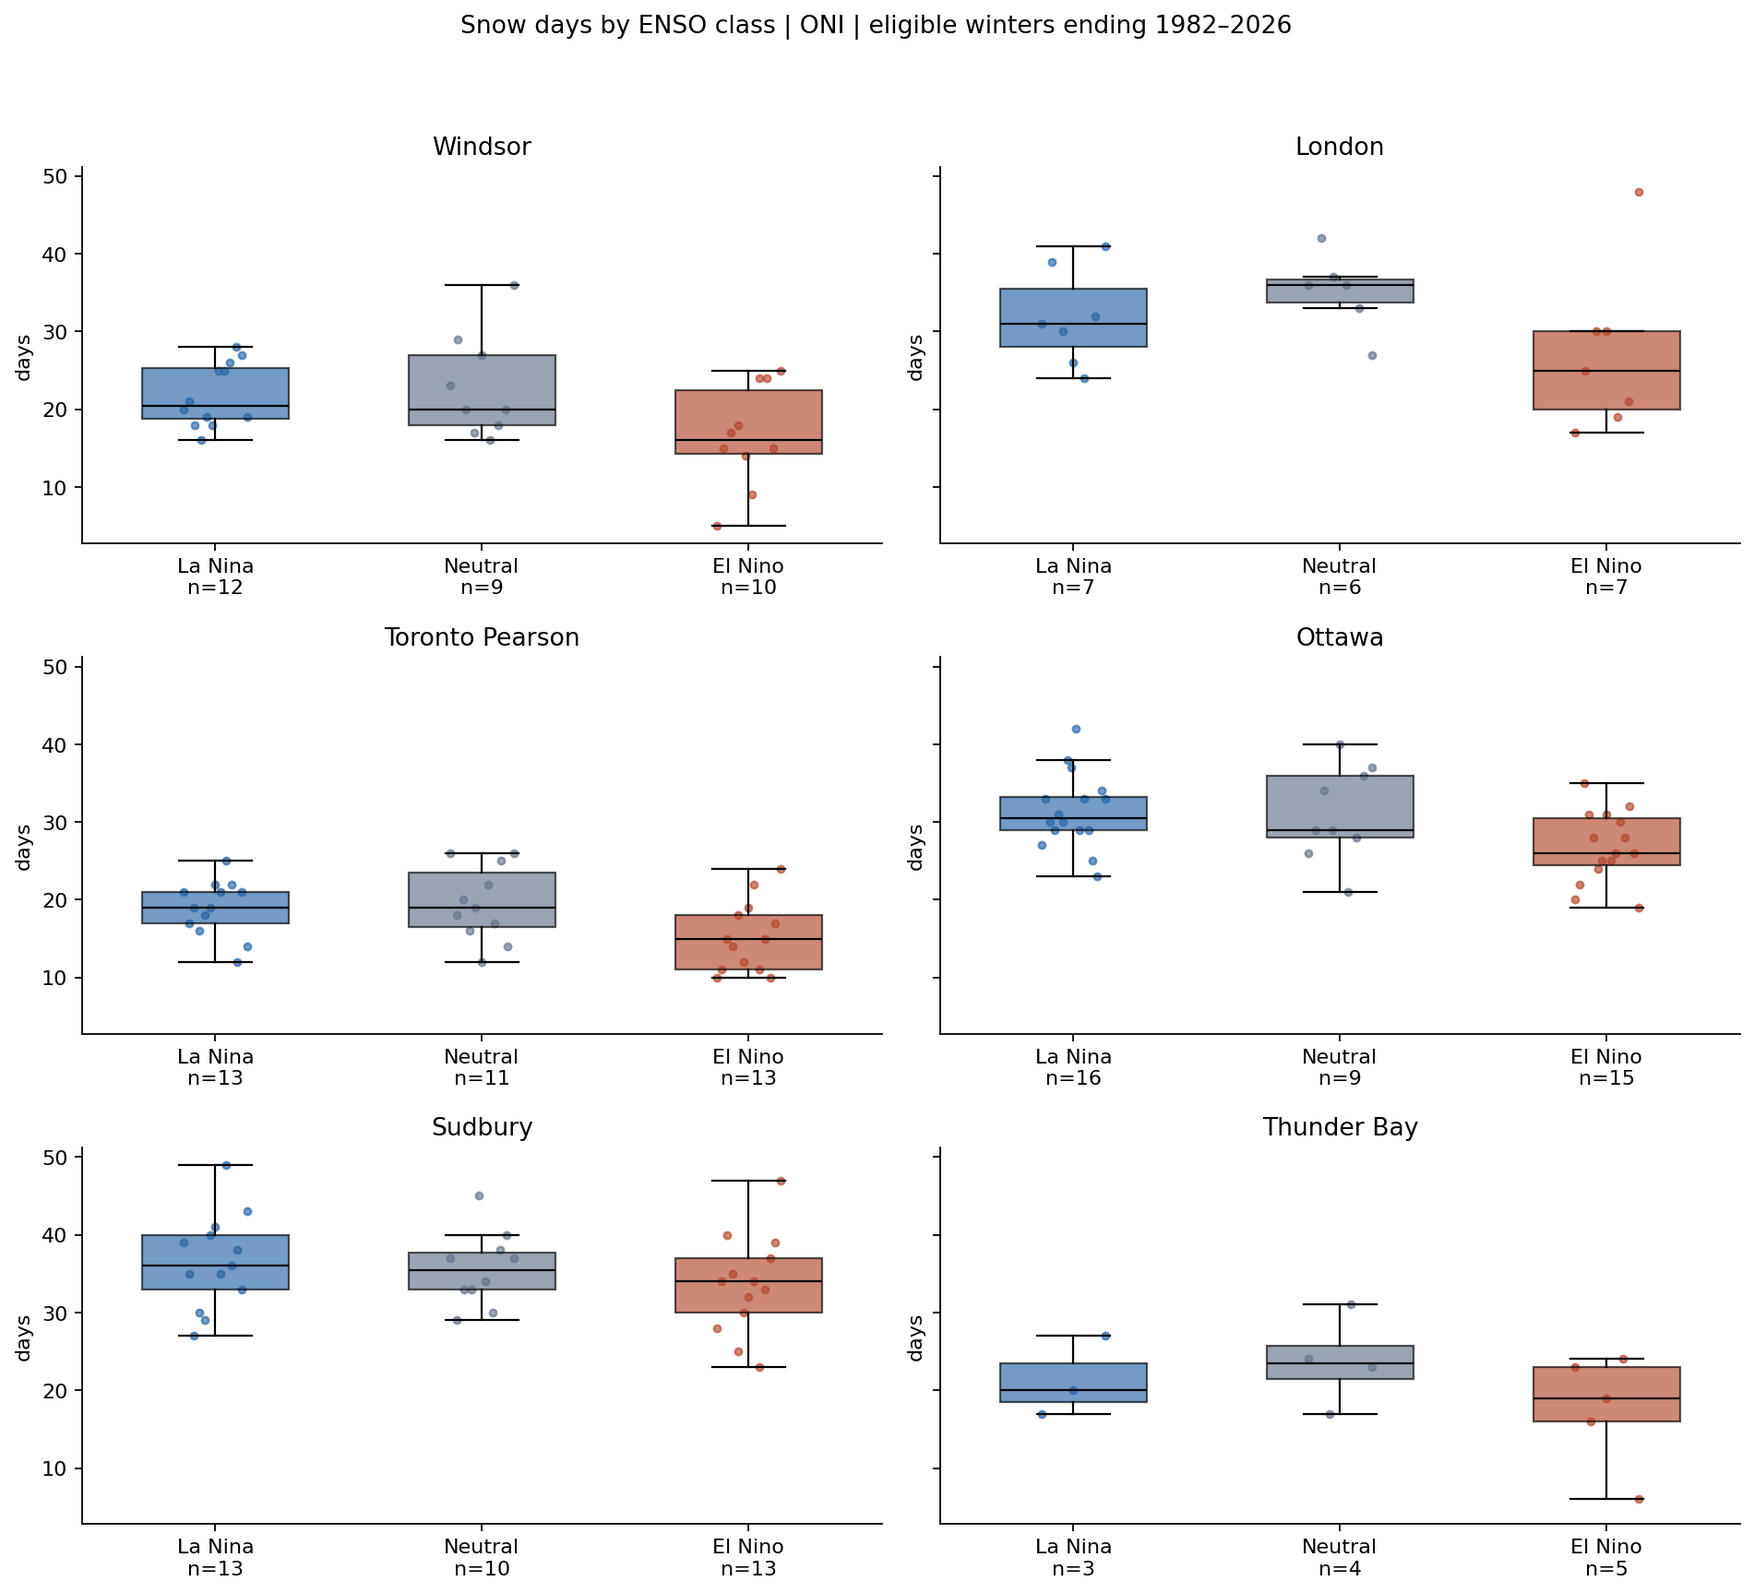
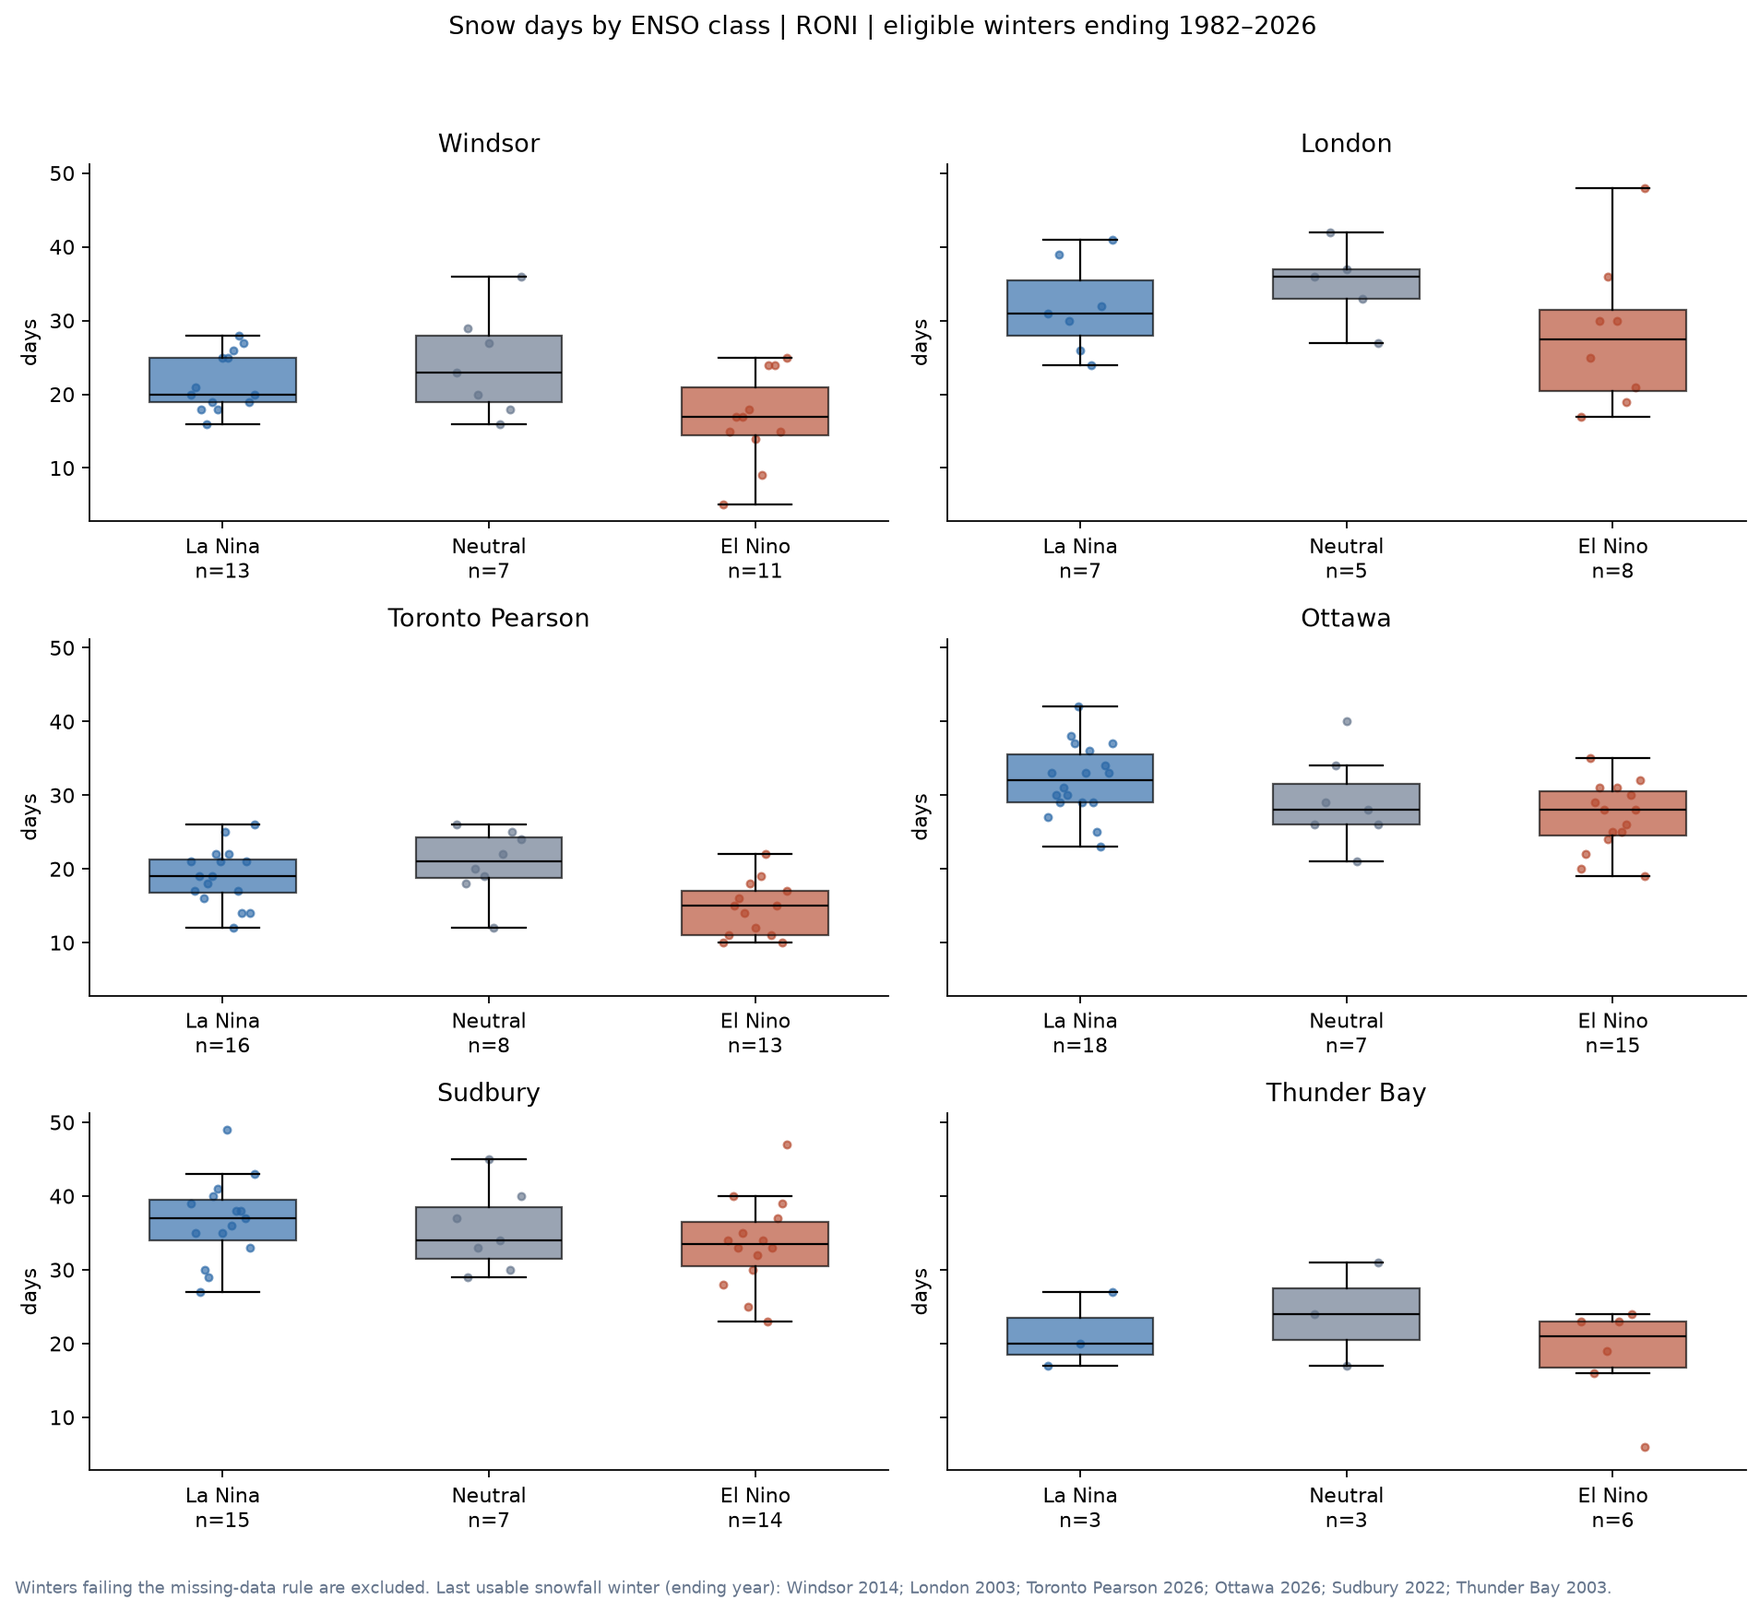
RONI Index Update
Changing the Index Parameter for Temperature

diff --git a/python/extra_charts.py b/python/extra_charts.py
@@ -1,0 +1,175 @@
+"""Extra charts: latitude gradient, ENSO index vs anomaly, data-usability grid, ONI vs RONI.
+
+Called from run_pipeline.py after create_charts(). Reads only the calculated tables,
+so it never changes the analysis.
+"""
+import numpy as np
+import matplotlib.pyplot as plt
+from matplotlib.patches import Rectangle, Patch
+from matplotlib.lines import Line2D
+import config as cfg
+from viz_style import COLORS, apply_style, finish
+
+INK = '#1f2937'
+MUTED = '#64748b'
+USABLE = '#2f6f73'      # teal: a usable winter
+MISSING = '#e5e7eb'     # light grey: excluded winter
+RNG = np.random.default_rng(cfg.RANDOM_SEED)
+
+
+def _pair(comparison, index, metric, group='El Nino'):
+    """El Nino (or Strong El Nino) minus Neutral rows for one index and metric."""
+    return comparison.loc[comparison['enso_index'].eq(index) & comparison['metric'].eq(metric)
+                          & comparison['comparison_group'].eq(group)
+                          & comparison['reference_group'].eq('Neutral')].set_index('city')
+
+
+def latitude_gradient(comparison, folder):
+    """Difference (El Nino minus Neutral) against station latitude: the south-to-north question."""
+    panels = [('mean_temp', 'Mean winter temperature', 'Difference (degrees C)'),
+              ('snowfall_total_cm', 'Total winter snowfall', 'Difference (cm)'),
+              ('snow_days', 'Snow days', 'Difference (days)')]
+    fig, axes = plt.subplots(1, 3, figsize=(15, 5))
+    for ax, (metric, title, ylabel) in zip(axes, panels):
+        rows = _pair(comparison, cfg.PRIMARY_INDEX, metric)
+        for k, (city, row) in enumerate(rows.sort_index(key=lambda i: [cfg.LATITUDES[c] for c in i]).iterrows()):
+            if not np.isfinite(row['difference']):
+                continue
+            lat = cfg.LATITUDES[city]
+            ax.plot([lat, lat], [row['ci_lower'], row['ci_upper']], color=COLORS['El Nino'], linewidth=1.8)
+            ax.scatter(lat, row['difference'], s=40, color=COLORS['El Nino'], zorder=3)
+            ax.annotate(f"{cfg.CITY_NAMES[city]}\nn={int(row['n_comparison'])}/{int(row['n_reference'])}",
+                        (lat, row['ci_upper']), textcoords='offset points', xytext=(0, 5 + 22 * (k % 2)),
+                        ha='center', fontsize=8, color=INK)
+        ax.axhline(0, color=MUTED, linewidth=1)
+        ax.margins(y=.18)
+        ax.set(title=title, xlabel='Station latitude (degrees N)', ylabel=ylabel)
+    fig.suptitle(f'El Nino minus Neutral by latitude | {cfg.PRIMARY_INDEX} | 95% intervals, n=El Nino/neutral winters')
+    fig.text(.01, .005, 'Winters failing the missing-data rule are excluded, so group sizes differ by station. '
+             'Snowfall covers different years at each station.', fontsize=8, color=MUTED)
+    finish(fig, folder / 'latitude_gradient.png')
+
+
+def _slope_ci(x, y, n=5000):
+    """Bootstrap 95% interval for the least-squares slope, resampling winters."""
+    slopes = []
+    for _ in range(n):
+        i = RNG.integers(0, len(x), len(x))
+        if np.ptp(x[i]) > 0:
+            slopes.append(np.polyfit(x[i], y[i], 1)[0])
+    return np.percentile(slopes, [2.5, 97.5])
+
+
+def index_vs_anomaly(winters, folder):
+    """Winter temperature anomaly against the continuous DJF index value (all winters, no classes)."""
+    index = cfg.PRIMARY_INDEX.lower()
+    cities = sorted(winters['city'].unique(), key=lambda c: cfg.LATITUDES[c])
+    fig, axes = plt.subplots(3, 2, figsize=(12, 11), sharex=True, sharey=True)
+    for ax, city in zip(axes.flat, cities):
+        block = winters.loc[winters['city'].eq(city)].dropna(subset=['temp_anomaly', 'enso_value'])
+        for group in cfg.CLASS_ORDER:
+            g = block.loc[block[f'enso_class_{index}'].eq(group)]
+            ax.scatter(g['enso_value'], g['temp_anomaly'], s=22, color=COLORS[group], alpha=.85,
+                       label=group, edgecolor='white', linewidth=.5)
+        x, y = block['enso_value'].to_numpy(), block['temp_anomaly'].to_numpy()
+        slope, intercept = np.polyfit(x, y, 1)
+        lo, hi = _slope_ci(x, y)
+        xs = np.array([x.min(), x.max()])
+        ax.plot(xs, intercept + slope * xs, color=INK, linewidth=1.3)
+        for v in (cfg.LA_NINA_THRESHOLD, cfg.EL_NINO_THRESHOLD):
+            ax.axvline(v, color='#cbd5e1', linewidth=.8, linestyle=':')
+        ax.axhline(0, color='#cbd5e1', linewidth=.8)
+        r = np.corrcoef(x, y)[0, 1]
+        ax.set_title(f'{cfg.CITY_NAMES[city]}: slope {slope:+.2f} °C per index unit '
+                     f'({lo:+.2f} to {hi:+.2f}), r={r:.2f}, n={len(x)}', fontsize=9.5)
+        ax.set(xlabel=f'DJF {cfg.PRIMARY_INDEX}', ylabel='Anomaly (degrees C)')
+    handles = [Line2D([], [], marker='o', linestyle='', color=COLORS[g], label=g) for g in cfg.CLASS_ORDER]
+    handles.append(Line2D([], [], color=INK, label='Least-squares fit'))
+    fig.legend(handles=handles, loc='upper center', bbox_to_anchor=(.5, .958), ncol=4, frameon=False)
+    fig.suptitle(f'Winter temperature anomaly vs DJF {cfg.PRIMARY_INDEX} | all eligible winters')
+    fig.text(.01, .005, 'Dotted lines mark the El Nino and La Nina thresholds. Slope intervals are bootstrap 95% '
+             'intervals over winters.', fontsize=8, color=MUTED)
+    finish(fig, folder / 'index_vs_temp_anomaly.png')
+
+
+def usability_grid(winters, folder):
+    """Which winters are usable for temperature and snowfall at each station, with the ENSO class on top."""
+    index = cfg.PRIMARY_INDEX.lower()
+    cities = sorted(winters['city'].unique(), key=lambda c: cfg.LATITUDES[c])
+    years = list(range(cfg.FIRST_WINTER, cfg.LAST_WINTER + 1))
+    fig, ax = plt.subplots(figsize=(13, 6.5))
+    # ENSO strip (same for every station)
+    enso = winters.drop_duplicates('winter_year').set_index('winter_year')[f'enso_class_{index}']
+    for j, yr in enumerate(years):
+        ax.add_patch(Rectangle((j, 0), .92, .7, color=COLORS.get(enso.get(yr), MISSING), linewidth=0))
+    ax.text(-.5, .35, f'ENSO class ({cfg.PRIMARY_INDEX})', ha='right', va='center', fontsize=9, color=INK)
+    y = 1.4
+    for city in cities:
+        block = winters.loc[winters['city'].eq(city)].set_index('winter_year')
+        for label, flag in [('Temperature', 'temperature_pass'), ('Snowfall', 'snowfall_pass')]:
+            for j, yr in enumerate(years):
+                ok = bool(block[flag].get(yr, False))
+                ax.add_patch(Rectangle((j, y), .92, .7, facecolor=USABLE if ok else MISSING, linewidth=0,
+                                       hatch=None if ok else '////', edgecolor='white'))
+            ax.text(-.5, y + .35, f'{cfg.CITY_NAMES[city]} {label.lower()}', ha='right', va='center',
+                    fontsize=8.5, color=INK)
+            n_ok = int(block[flag].sum())
+            ax.text(len(years) + .1, y + .35, f'{n_ok}/{len(years)}', ha='left', va='center', fontsize=8.5, color=MUTED)
+            y += .85
+        y += .35
+    ax.set_xlim(-.2, len(years) + 1.5)
+    ax.set_ylim(y, -.3)
+    ax.set_yticks([])
+    ax.set_xticks([j + .46 for j in range(0, len(years), 5)], [years[j] for j in range(0, len(years), 5)])
+    for s in ('left', 'bottom', 'top', 'right'):
+        ax.spines[s].set_visible(False)
+    ax.set_xlabel('Winter ending year')
+    legend = [Patch(facecolor=USABLE, label='Usable winter'),
+              Patch(facecolor=MISSING, hatch='////', edgecolor='white', label='Excluded (fails 3-and-5 rule or no data)')]
+    legend += [Patch(facecolor=COLORS[g], label=g) for g in cfg.CLASS_ORDER]
+    fig.legend(handles=legend, loc='upper center', bbox_to_anchor=(.55, .955), ncol=5, frameon=False, fontsize=8.5)
+    fig.suptitle('Which winters can be used, by station and measure')
+    fig.subplots_adjust(left=.22)
+    fig.savefig(folder / 'winter_usability_grid.png', bbox_inches='tight')
+    plt.close(fig)
+
+
+def oni_vs_roni(comparison, folder):
+    """Robustness check: the same El Nino minus Neutral difference under both indices."""
+    panels = [('mean_temp', 'Mean winter temperature (degrees C)'),
+              ('snowfall_total_cm', 'Total winter snowfall (cm)'),
+              ('snow_days', 'Snow days (days)')]
+    cities = sorted(comparison['city'].unique(), key=lambda c: cfg.LATITUDES[c])
+    style = {'ONI': dict(color='#0f766e', marker='o', mfc='white'),
+             'RONI': dict(color=INK, marker='o', mfc=INK)}
+    fig, axes = plt.subplots(1, 3, figsize=(15, 5.5), sharey=True)
+    for ax, (metric, title) in zip(axes, panels):
+        for k, index in enumerate(['ONI', 'RONI']):
+            rows = _pair(comparison, index, metric).reindex(cities)
+            for pos, (city, row) in enumerate(rows.iterrows()):
+                if not np.isfinite(row['difference']):
+                    continue
+                yy = pos + (-.15 if index == 'ONI' else .15)
+                ax.plot([row['ci_lower'], row['ci_upper']], [yy, yy], color=style[index]['color'], linewidth=1.6)
+                ax.plot(row['difference'], yy, marker='o', markersize=6, linestyle='',
+                        color=style[index]['color'], markerfacecolor=style[index]['mfc'], zorder=3)
+        ax.axvline(0, color=MUTED, linewidth=1)
+        ax.set_yticks(range(len(cities)), [cfg.CITY_NAMES[c] for c in cities])
+        ax.invert_yaxis()
+        ax.set(title=title, xlabel='El Nino minus Neutral')
+    handles = [Line2D([], [], marker='o', color=style[i]['color'], markerfacecolor=style[i]['mfc'], label=i)
+               for i in ('ONI', 'RONI')]
+    fig.legend(handles=handles, loc='upper center', bbox_to_anchor=(.5, .958), ncol=2, frameon=False)
+    fig.suptitle('Does the index choice change the answer? | 95% intervals')
+    fig.text(.01, .005, 'Group sizes differ slightly between indices because the two indices label some winters differently.',
+             fontsize=8, color=MUTED)
+    finish(fig, folder / 'oni_vs_roni.png')
+
+
+def create_extra_charts(winters, comparison, folder):
+    folder.mkdir(parents=True, exist_ok=True)
+    apply_style()
+    latitude_gradient(comparison, folder)
+    index_vs_anomaly(winters, folder)
+    usability_grid(winters, folder)
+    oni_vs_roni(comparison, folder)

diff --git a/python/eda.py b/python/eda.py
@@ -5,9 +5,21 @@ import config as cfg
 from viz_style import COLORS, apply_style, finish
 
 
+def snowfall_note(winters):
+    """One-line footnote naming each station's last usable snowfall winter."""
+    last = winters.loc[winters['snowfall_pass']].groupby('city')['winter_year'].max()
+    ends = '; '.join(f"{cfg.CITY_NAMES[c]} {int(last[c])}" for c in sorted(last.index, key=lambda c: cfg.LATITUDES[c]))
+    return ('Winters failing the missing-data rule are excluded. Last usable snowfall winter (ending year): '
+            + ends + '.')
+
+
+TEMP_NOTE = 'Winters failing the missing-data rule (3 consecutive / 5 total missing days per month) are excluded, so n differs by station.'
+
+
 def create_charts(daily, winters, comparison, trends, folder):
     folder.mkdir(parents=True, exist_ok=True)
     apply_style()
+    snow_note = snowfall_note(winters)
     index = cfg.PRIMARY_INDEX.lower()
     cities = sorted(winters['city'].unique(), key=lambda c: cfg.LATITUDES[c])
     # One panel per location. Always state sample counts and physical units.
@@ -32,7 +44,7 @@ def create_charts(daily, winters, comparison, trends, folder):
         for ax in list(axes.flat)[len(cities):]:
             ax.set_visible(False)
         fig.suptitle(f'{label} by ENSO class | {cfg.PRIMARY_INDEX} | eligible winters ending {cfg.FIRST_WINTER}–{cfg.LAST_WINTER}')
-        finish(fig, folder / f'{metric}_by_enso.png')
+        finish(fig, folder / f'{metric}_by_enso.png', snow_note if metric in ('snowfall_total_cm', 'snow_days') else TEMP_NOTE)
 
     for metric, (label, unit) in cfg.METRICS.items():
         fig, axes = plt.subplots(1, 2, figsize=(12, 5), sharex=True)
@@ -51,7 +63,7 @@ def create_charts(daily, winters, comparison, trends, folder):
             ax.set(title=f'{group} minus Neutral', xlabel=f'Difference ({unit})')
             ax.invert_yaxis()
         fig.suptitle(f'{label} differences | {cfg.PRIMARY_INDEX} | percentile 95% intervals, n=comparison/reference')
-        finish(fig, folder / f'{metric}_differences.png')
+        finish(fig, folder / f'{metric}_differences.png', snow_note if metric in ('snowfall_total_cm', 'snow_days') else TEMP_NOTE)
 
     fig, axes = plt.subplots(3, 2, figsize=(12, 10), sharey=True)
     for ax, city in zip(axes.flat, cities):
@@ -66,13 +78,22 @@ def create_charts(daily, winters, comparison, trends, folder):
             fit = trend['intercept'] + trend['slope_c_per_decade']/10*block['winter_year'] - baseline
             ax.plot(block['winter_year'], fit, color='#252525', linestyle='--', linewidth=1, label='Linear trend')
         ax.axhline(0, color='#c7c7c7', linewidth=.7)
-        ax.set(title=cfg.CITY_NAMES[city], xlabel='Winter ending year', ylabel='Anomaly (degrees C)')
+        gone = block.loc[block['temp_anomaly'].isna(), 'winter_year']
+        if len(gone):  # tick marks along the bottom show excluded winters instead of hiding them
+            ax.plot(gone, [.02] * len(gone), marker='|', linestyle='', color='#111827', markersize=9,
+                    transform=ax.get_xaxis_transform(), label='Excluded winter (missing data)')
+        ax.set(title=f"{cfg.CITY_NAMES[city]} ({int(block['temp_anomaly'].notna().sum())} of {len(block)} winters usable)",
+               xlabel='Winter ending year', ylabel='Anomaly (degrees C)')
     for ax in list(axes.flat)[len(cities):]:
         ax.set_visible(False)
-    handles, labels = axes.flat[0].get_legend_handles_labels()
-    fig.legend(handles, labels, loc='upper center', bbox_to_anchor=(.5, .958), ncol=4, frameon=False)
+    seen = {}
+    for ax in axes.flat:
+        for h, l in zip(*ax.get_legend_handles_labels()):
+            seen.setdefault(l, h)
+    handles, labels = list(seen.values()), list(seen.keys())
+    fig.legend(handles, labels, loc='upper center', bbox_to_anchor=(.5, .958), ncol=5, frameon=False)
     fig.suptitle(f'Temperature anomalies | {cfg.PRIMARY_INDEX} | baseline: eligible winters ending {cfg.BASELINE_START}–{cfg.BASELINE_END}')
-    finish(fig, folder / 'temperature_anomaly_timeline.png')
+    finish(fig, folder / 'temperature_anomaly_timeline.png', TEMP_NOTE)
 
     fig, axes = plt.subplots(3, 2, figsize=(12, 10))
     for ax, city in zip(axes.flat, cities):
@@ -84,4 +105,4 @@ def create_charts(daily, winters, comparison, trends, folder):
         ax.set_visible(False)
     axes.flat[0].legend(fontsize=8)
     fig.suptitle('Winter data coverage | absent dates count as missing measurements')
-    finish(fig, folder / 'winter_data_coverage.png')
+    finish(fig, folder / 'winter_data_coverage.png', 'Coverage counts absent dates as missing. Snowfall drops to zero where a station stopped reporting it.')

diff --git a/python/viz_style.py b/python/viz_style.py
@@ -17,3 +17,24 @@ def finish(fig, path):
     fig.tight_layout(rect=(0, 0, 1, .95))
     fig.savefig(path, bbox_inches='tight')
     plt.close(fig)
+"""Shared chart appearance. No chart changes the analytical data."""
+import matplotlib
+matplotlib.use('Agg')
+import matplotlib.pyplot as plt
+
+COLORS = {'El Nino': '#b5482d', 'Neutral': '#64748b', 'La Nina': '#2866a6'}
+
+
+def apply_style():
+    plt.rcParams.update({'font.size': 10, 'axes.titlesize': 12,
+                         'axes.spines.top': False, 'axes.spines.right': False,
+                         'figure.facecolor': 'white', 'axes.facecolor': 'white',
+                         'savefig.dpi': 160})
+
+
+def finish(fig, path, note=None):
+    fig.tight_layout(rect=(0, 0.03 if note else 0, 1, .95))
+    if note:  # footnote explaining excluded winters and record limits
+        fig.text(.01, .005, note, fontsize=8, color='#64748b', va='bottom')
+    fig.savefig(path, bbox_inches='tight')
+    plt.close(fig)

diff --git a/python/config.py b/python/config.py
@@ -2,7 +2,7 @@
 from pathlib import Path
 
 ROOT = Path(__file__).resolve().parents[1]
-INPUT_DIR = ROOT / 'data' / 'raw'
+INPUT_DIR = ROOT / 'data' / 'interim'
 ENSO_FILE = ROOT / 'data' / 'external' / 'enso_djf.csv'
 STATIONS = ['london', 'ottawa', 'sudbury', 'thunderbay', 'toronto', 'windsor']
 PRIMARY_STATIONS = ['windsor', 'toronto', 'ottawa', 'thunderbay']
@@ -18,7 +18,7 @@ LAST_WINTER = 2026
 BASELINE_START = 1991  # First baseline winter begins December 1990
 BASELINE_END = 2020
 WINTER_MONTHS = [12, 1, 2]
-PRIMARY_INDEX = 'ONI'  # Both ONI and RONI comparisons are always saved
+PRIMARY_INDEX = 'RONI'  # Both ONI and RONI comparisons are always saved
 EL_NINO_THRESHOLD = 0.5
 LA_NINA_THRESHOLD = -0.5
 STRONG_THRESHOLD = 1.5

diff --git a/python/run_pipeline.py b/python/run_pipeline.py
@@ -144,7 +144,9 @@ def main():
     findings_report(winters, baselines, comparison, regional, reports)
     if not args.no_plots:
         from eda import create_charts
+        from extra_charts import create_extra_charts
         create_charts(daily, winters, comparison, trends, output / 'figures')
+        create_extra_charts(winters, comparison, output / 'figures')
     sources = [{'file': str(p.relative_to(args.input_dir)),
                 'sha256': hashlib.sha256(p.read_bytes()).hexdigest()} for p in paths]
     sources.append({'file': 'enso_djf.csv', 'sha256': hashlib.sha256(cfg.ENSO_FILE.read_bytes()).hexdigest()})
